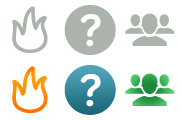
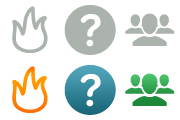
message for already subscribed, fixed image, adjusted styles, meta description

diff --git a/PaidThx Web/Scripts/home.js b/PaidThx Web/Scripts/home.js
@@ -108,7 +108,7 @@ var submitSignup = function () {
                 $('#output').html(data.message);
                 $('#txtEmailAddress').qtip({
                     overwrite: false,
-                    id: 'output-tip',
+                    id: 'output-tip-thanks',
                     content: {
                         text: 'Thank you for your interest! You will receive an invitation when we think you are ready to experience PaidThx.'
                         },
@@ -138,6 +138,35 @@ var submitSignup = function () {
             }
             else {
                 $('#output').html(data.message);
+                 $('#txtEmailAddress').qtip({
+                    overwrite: false,
+                    id: 'output-tip-existing',
+                    content: {
+                        text: 'You must really want to try out PaidThx because this email is already registered for a BETA invite!'
+                        },
+                    style: {
+                        classes: 'ui-tooltip-light ui-tooltip-shadow'
+                    },
+                    show: {
+                        event: false,
+                        ready: true,
+                        effect: function (offset) {
+                            $(this).slideDown(100);
+                        }
+                    },
+                    hide: { 
+                    event:false,
+                    inactive: 20000,
+                    },
+                    position: {
+                        my: 'top right',
+                        at: 'bottom center',
+                        adjust: {
+                            x: -20
+                        }
+
+                    }
+                })
             }
             //$('#output').show();
         },

diff --git a/PaidThx Web/Styles/Site.css b/PaidThx Web/Styles/Site.css
@@ -722,14 +722,19 @@ text-shadow: 0px 2px 2px rgba(0,0,0,0.1),
 {
  behavior: url('/Scripts/PIE.htc');   
 }
-#ui-tooltip-output-tip
+
+#ui-tooltip-output-tip, #ui-tooltip-output-thanks, #ui-tooltip-output-existing
 {
  display:none;   
  font-size:14px;
  font-family:Helvetica, Arial, Sans-Serif;
  line-height:20px;
+ font-weight:bold;
 }
-
+#ui-tooltip-output-thanks, #ui-tooltip-output-existing
+{
+ color: #196779 !important;
+}
 .ui-tooltip-content
 {
  padding:10px;   
